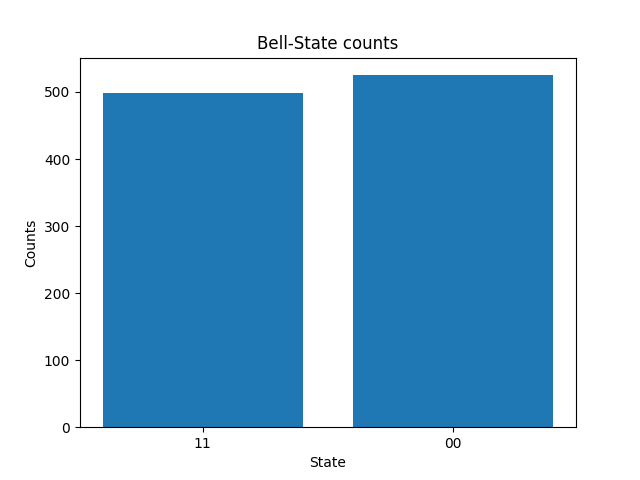
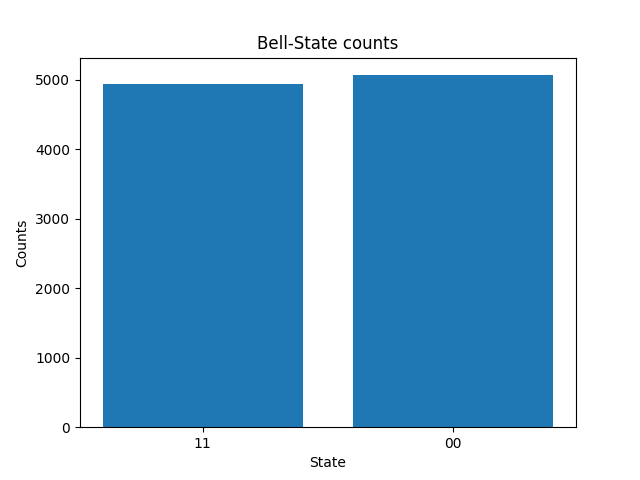
use state vector

diff --git a/ibm_qiskit/hello.py b/ibm_qiskit/hello.py
@@ -16,12 +16,12 @@ circ.cx(0, 1)
 circ.measure_all()
 
 # Transpile for simulator
-simulator = AerSimulator()
-circ = transpile(circ, simulator)
+shots = 10000
+simulator = AerSimulator(method="statevector")
 
-# Run and get counts
-result = simulator.run(circ).result()
-counts = result.get_counts(circ)
+job_statevector = simulator.run(circ, shots=shots)
+counts = job_statevector.result().get_counts(0)
+
 plot_histogram(counts, title="Bell-State counts")
 
 if not os.path.exists("results"):
